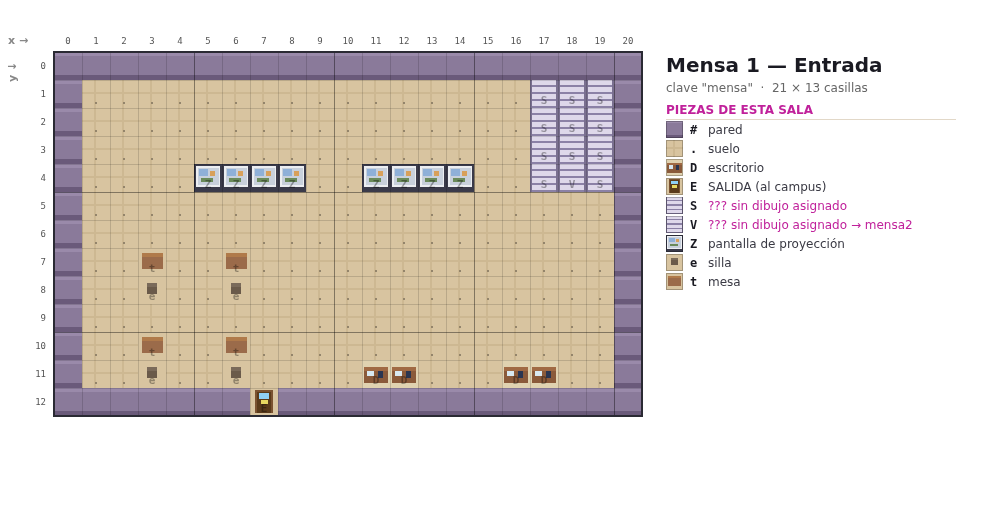
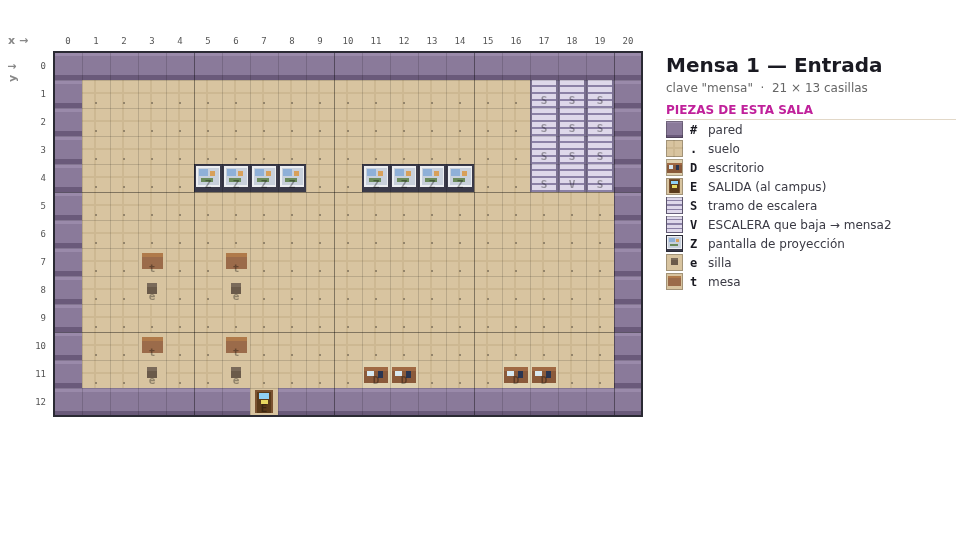
Diseñar la Zentralbibliothek: tres plantas y cuatro salas anexas
Seis escenas a partir de los tres planos dibujados. La planta baja
reemplaza al interior antiguo de una sola sala.

- zb (21x16) "Vestíbulo": se entra por abajo. En el vestíbulo, las
  exposiciones temporales a la izquierda —tres paneles que se leen— y los
  dos aseos a la derecha. Cruzando el tabique, la sala principal con el
  mostrador de préstamo, las estanterías y la escalera.
- zb2 (21x15) "Segundo piso": estanterías y mesas de estudio arriba,
  separadas por un tabique con un solo paso de la sala grande de estudio.
  A la izquierda la puerta a la torre; abajo a la derecha, la hemeroteca.
- zb_torre (21x13): cuatro hileras de estanterías y nada más.
- zb_revistas (13x11), zb_bano_m y zb_bano_h (10x7).

Dos arreglos en el motor que salieron de probarlo:

- loadScene hacía npcs=I.npcs sin proteger, así que una sala sin NPCs
  —zb_bano_h es la primera— dejaba npcs en undefined y el render lanzaba
  al primer forEach, matando el bucle de fotogramas. Pasa a npcs=I.npcs||[].
- transition() ponía state='play' incondicionalmente al terminar. Si entre
  medias arrancaba un guion de escalera, le quitaba el control y lo dejaba
  a medias. Ahora respeta el guion en curso.

tools/sala.js aprende las piezas de escalera y encoge el título cuando no
cabe en el panel.

Probado en navegador real: las cuatro puertas entran y vuelven, la escalera
sube y baja con su animación, y se entra desde el campus. Sin errores de
JS. validateMaps() da 0 errores y 0 avisos sobre 26 salas.
[…]

Changed region(s): [[0.0, 0.0604, 0.949, 0.7849], [0.4592, 0.5132, 0.5204, 0.5434], [0.0, 0.0604, 0.0306, 0.0906]]

diff --git a/index.html b/index.html
@@ -629,29 +629,162 @@ const INTERIORS = {
        lines:["Llevo viniendo al Gmoa desde que era estudiante. De eso hace… años.","Algunas cosas de Passau no cambian, y menos mal."]},
     ]
   },
+  //---------------- ZENTRALBIBLIOTHEK (tres plantas) ----------------
+  // Planta baja: se entra por abajo a un vestíbulo con las exposiciones
+  // temporales a la izquierda y los dos aseos a la derecha. Cruzando el
+  // tabique está la sala principal, con el mostrador de préstamo, las
+  // estanterías y la escalera al segundo piso.
   zb: {
-    name:"Zentralbibliothek",
+    name:"Zentralbibliothek — Vestíbulo",
+    grid:[
+      "#####################",
+      "#.s.s...........c...#",
+      "#.s.s...........c...#",
+      "#.s.s...........c...#",
+      "#.....SSS.......c...#",
+      "#.s.s.SSS.......c...#",
+      "#.s.s.SSS.......c...#",
+      "#.s.s.SVS...........#",
+      "#...................#",
+      "#...................#",
+      "###########.#########",
+      "#.II.II.II.......####",
+      "#................#A##",
+      "#...................#",
+      "#................#C##",
+      "###########E#########",
+    ],
+    doors:[
+      {x:7, y:7,  to:'zb2'},
+      {x:18,y:12, to:'zb_bano_m'},
+      {x:18,y:14, to:'zb_bano_h'},
+    ],
+    info:[
+      {x:2,y:11,name:"Exposición temporal",lines:["🖼 «PASSAU EN 1900» — fotografías de la ciudad","Fondo del archivo municipal. Hasta final de semestre.","Entrada libre."]},
+      {x:5,y:11,name:"Exposición temporal",lines:["🖼 Grabados del Danubio, siglo XVIII.","Cedidos por la Staatsbibliothek."]},
+      {x:8,y:11,name:"Exposición temporal",lines:["🖼 Manuscritos del Nikolakloster.","No tocar el cristal, por favor. Va en serio."]},
+    ],
+    npcs:[
+      {x:17,y:3,name:"Bibliotecaria Frau Vogt",color:"#5ab0d6",dir:'left',
+       lines:["Mostrador de préstamo. ¿Vienes a llevarte algo o a devolverlo?","Tres semanas, y se puede renovar dos veces. Después, multa."],
+       careerLine:{default:"Sea cual sea tu carrera, aquí tenemos tu bibliografía. En algún sitio."},
+       choice:{q:"¿En qué te ayudo?",opts:[
+         {t:"Sacar un libro",r:["Tarjeta de estudiante y firma aquí. Y devuélvelo a tiempo, que me acuerdo de las caras."]},
+         {t:"¿Dónde está la torre de los libros?",r:["Segundo piso, al fondo a la izquierda.","Ahí guardamos lo que ya no cabe abajo. No te pierdas."]},
+         {t:"Nada, gracias",r:["Pues por aquí andaré."]}]}},
+      {x:7,y:2,name:"Estudiante Jonas",color:"#5ad68f",dir:'left',
+       lines:["Llevo veinte minutos buscando una signatura que empieza por PT.","Juraría que el catálogo se inventa la mitad de los números."]},
+      {x:3,y:12,name:"Estudiante Lea",color:"#d65a8a",dir:'up',
+       lines:["Vengo por las exposiciones, no te voy a mentir.","Las cambian cada semestre y son gratis."]},
+    ]
+  },
+  // Segundo piso: se sube por la escalera. Arriba, estanterías y mesas de
+  // estudio; un tabique con un solo paso separa esa zona de la sala grande
+  // de estudio. A la izquierda, la puerta a la torre de los libros; abajo a
+  // la derecha, la hemeroteca.
+  zb2: {
+    name:"Zentralbibliothek — Segundo piso",
+    grid:[
+      "#####################",
+      "#............s.s.s..#",
+      "#.mm.........s.s.s..#",
+      "#.mm..ss.....SSS....#",
+      "#.....ss.....SSS....#",
+      "#.mm.........SSS....#",
+      "C.mm.........SUS....#",
+      "#...................#",
+      "##########.#######A##",
+      "#mmm.......mmm..#####",
+      "#...............#####",
+      "#mmm.......mmm..#####",
+      "#...............#####",
+      "#mmm.......mmm..#####",
+      "#####################",
+    ],
+    doors:[
+      {x:0, y:6, to:'zb_torre'},
+      {x:18,y:8, to:'zb_revistas'},
+    ],
+    npcs:[
+      {x:1,y:7,name:"Archivero Herr Brand",color:"#8a5ad6",dir:'left',
+       lines:["Esa puerta da a la torre de los libros. Cuatro pisos de estanterías.","Ahí dentro no hay ventanas y el silencio es distinto. Ya lo notarás."]},
+      {x:4,y:10,name:"Estudiante Mira",color:"#5a8ad6",dir:'right',
+       lines:["Esta sala es la buena: mesas grandes y nadie hablando.","Los de abajo vienen a socializar; nosotros venimos a sufrir."]},
+      {x:14,y:2,name:"Estudiante Tobias",color:"#d6a05a",dir:'down',
+       lines:["Cuidado al bajar la escalera con la pila de libros.","Lo digo por experiencia."]},
+    ]
+  },
+  // La torre de los libros: cuatro hileras de estanterías y nada más.
+  zb_torre: {
+    name:"Zentralbibliothek — Torre de los libros",
+    grid:[
+      "#####################",
+      "#...................#",
+      "#.s..s..s..s..s..s..#",
+      "#.s..s..s..s..s..s..#",
+      "#...................#",
+      "#...................#",
+      "#.s..s..s..s..s..s..X",
+      "#.s..s..s..s..s..s..#",
+      "#...................#",
+      "#...................#",
+      "#.s..s..s..s..s..s..#",
+      "#.s..s..s..s..s..s..#",
+      "#####################",
+    ],
+    npcs:[
+      {x:10,y:8,name:"Bibliotecario Herr Kranz",color:"#6a7a8a",dir:'up',
+       lines:["Aquí abajo está lo que nadie pide desde 1974.","Y aun así, alguien lo pide. Siempre alguien lo pide."]},
+    ]
+  },
+  // Hemeroteca: revistas y periódicos, con mesas de lectura.
+  zb_revistas: {
+    name:"Zentralbibliothek — Hemeroteca",
+    grid:[
+      "######X######",
+      "#...........#",
+      "#.sssss.sss.#",
+      "#...........#",
+      "#.t.t.t.t.t.#",
+      "#.e.e.e.e.e.#",
+      "#...........#",
+      "#.t.t.t.t.t.#",
+      "#.e.e.e.e.e.#",
+      "#...........#",
+      "#############",
+    ],
+    npcs:[
+      {x:9,y:4,name:"Jubilado Herr Pichler",color:"#8a6a3a",dir:'left',
+       lines:["Vengo cada mañana a leer la Passauer Neue Presse.","No hace falta ser estudiante. Solo hay que estar callado."]},
+    ]
+  },
+  zb_bano_m: {
+    name:"Zentralbibliothek — Aseo de mujeres",
     grid:[
       "##########",
-      "#ssssssss#",
+      "#WLbbbLW.#",
       "#........#",
-      "#s.ss.ss.#",
-      "#s.ss.ss.#",
+      "#.p....p.#",
       "#........#",
-      "#tt.tt.tt#",
-      "#ee.ee.ee#",
       "#........#",
       "####X#####",
     ],
     npcs:[
-      {x:1,y:2,name:"Bibliotecario Jonas",color:"#5ab0d6",dir:'right',
-       lines:["¿Buscas un libro o solo un sitio silencioso?","Tenemos plazas con vistas al Inn en la planta de arriba."],
-       choice:{q:"¿En qué te ayudo?",opts:[
-         {t:"Buscar bibliografía",r:["Mira en el catálogo OPAC. Y reserva pronto, en época de exámenes vuela."]},
-         {t:"Un sitio para estudiar",r:["Sube a la primera planta. Lleva auriculares, hay quien susurra demasiado."]}]}},
-      {x:8,y:5,name:"Estudiante Lea",color:"#5ad68f",dir:'down',
-       lines:["Tercer café del día y sigo en la misma página.","Pero el ambiente de la biblio ayuda a concentrarse."]},
+      {x:7,y:4,name:"Estudiante Nina",color:"#d65a8a",dir:'down',
+       lines:["El secador lleva roto desde antes de que yo me matriculara.","Y no exagero: entré en 2021."]},
     ]
+  },
+  zb_bano_h: {
+    name:"Zentralbibliothek — Aseo de hombres",
+    grid:[
+      "##########",
+      "#.WWLLbb.#",
+      "#........#",
+      "#.p....p.#",
+      "#........#",
+      "#........#",
+      "####X#####",
+    ],
   },
   innstegaula: {
     name:"Innstegaula — Aula Magna",
@@ -1807,7 +1940,7 @@ function loadScene(key,at,dir){
   }
   scene=key; const I=INTERIORS[key];
   map=I.grid; mapW=map[0].length; mapH=map.length;
-  npcs=I.npcs; patioMode=!!I.isPatio;
+  npcs=I.npcs||[]; patioMode=!!I.isPatio;   // una sala sin NPCs no debe romper el render
   player.x=at[0];player.y=at[1];player.px=player.x*TILE;player.py=player.y*TILE;
   player.tx=player.x;player.ty=player.y;player.dir=dir||'up';player.moving=false;
   showToast(I.name);
@@ -1935,7 +2068,9 @@ function updateLocation(){
 //==================================================================
 const fade=document.getElementById('fade');
 function transition(mid){state='transition';fade.style.opacity='1';
-  setTimeout(()=>{mid&&mid();setTimeout(()=>{fade.style.opacity='0';state='play';},180);},320);}
+  // si mientras tanto ha arrancado un guion (una escalera), no le quitamos
+  // el control: seria el guion quien devuelve el estado al terminar.
+  setTimeout(()=>{mid&&mid();setTimeout(()=>{fade.style.opacity='0';if(!guion)state='play';},180);},320);}
 
 //==================================================================
 //  RENDER

diff --git a/tools/sala-template.html b/tools/sala-template.html
@@ -56,7 +56,10 @@ if(marca){
 // ---------------- panel ----------------
 const LX=ML+W*TS+24; let ly=MT+4;
 x.textAlign='left';
-x.font='bold 20px system-ui';x.fillStyle='#1a1a22';x.fillText(I.name||clave,LX,ly+16);
+const tit=I.name||clave;
+let ts=20; x.font='bold '+ts+'px system-ui';
+while(x.measureText(tit).width>cw-LX-16 && ts>12){ ts--; x.font='bold '+ts+'px system-ui'; }
+x.fillStyle='#1a1a22'; x.fillText(tit,LX,ly+16);
 x.font='12px system-ui';x.fillStyle='#666';
 x.fillText('clave "'+clave+'"  ·  '+W+' × '+H+' casillas',LX,ly+36);
 ly+=58;
@@ -69,6 +72,7 @@ const NOMBRE={'#':'pared','=':'pared clara','.':'suelo','+':'umbral','a':'suelo 
  'u':'taburete','K':'barril','B':'estante de botellas','p':'planta','I':'tablón de anuncios','P':'pizarra',
  'Z':'pantalla de proyección','W':'inodoro','L':'lavabo','o':'árbol','F':'fuente',
  'X':'SALIDA (al vestíbulo)','E':'SALIDA (al campus)','Y':'puerta al patio','G':'puerta al bar',
+ 'S':'tramo de escalera','V':'ESCALERA que baja','U':'ESCALERA que sube (salida)',
  '1':'puerta a sala 1','2':'puerta a sala 2','3':'puerta a sala 3','4':'puerta a sala 4',
  '5':'puerta a sala 5','6':'puerta a sala 6','A':'puerta a sala A','C':'puerta a sala C','J':'puerta lateral'};
 const destino={}; (I.doors||[]).forEach(d=>{ destino[g[d.y][d.x]]=d.to; });
